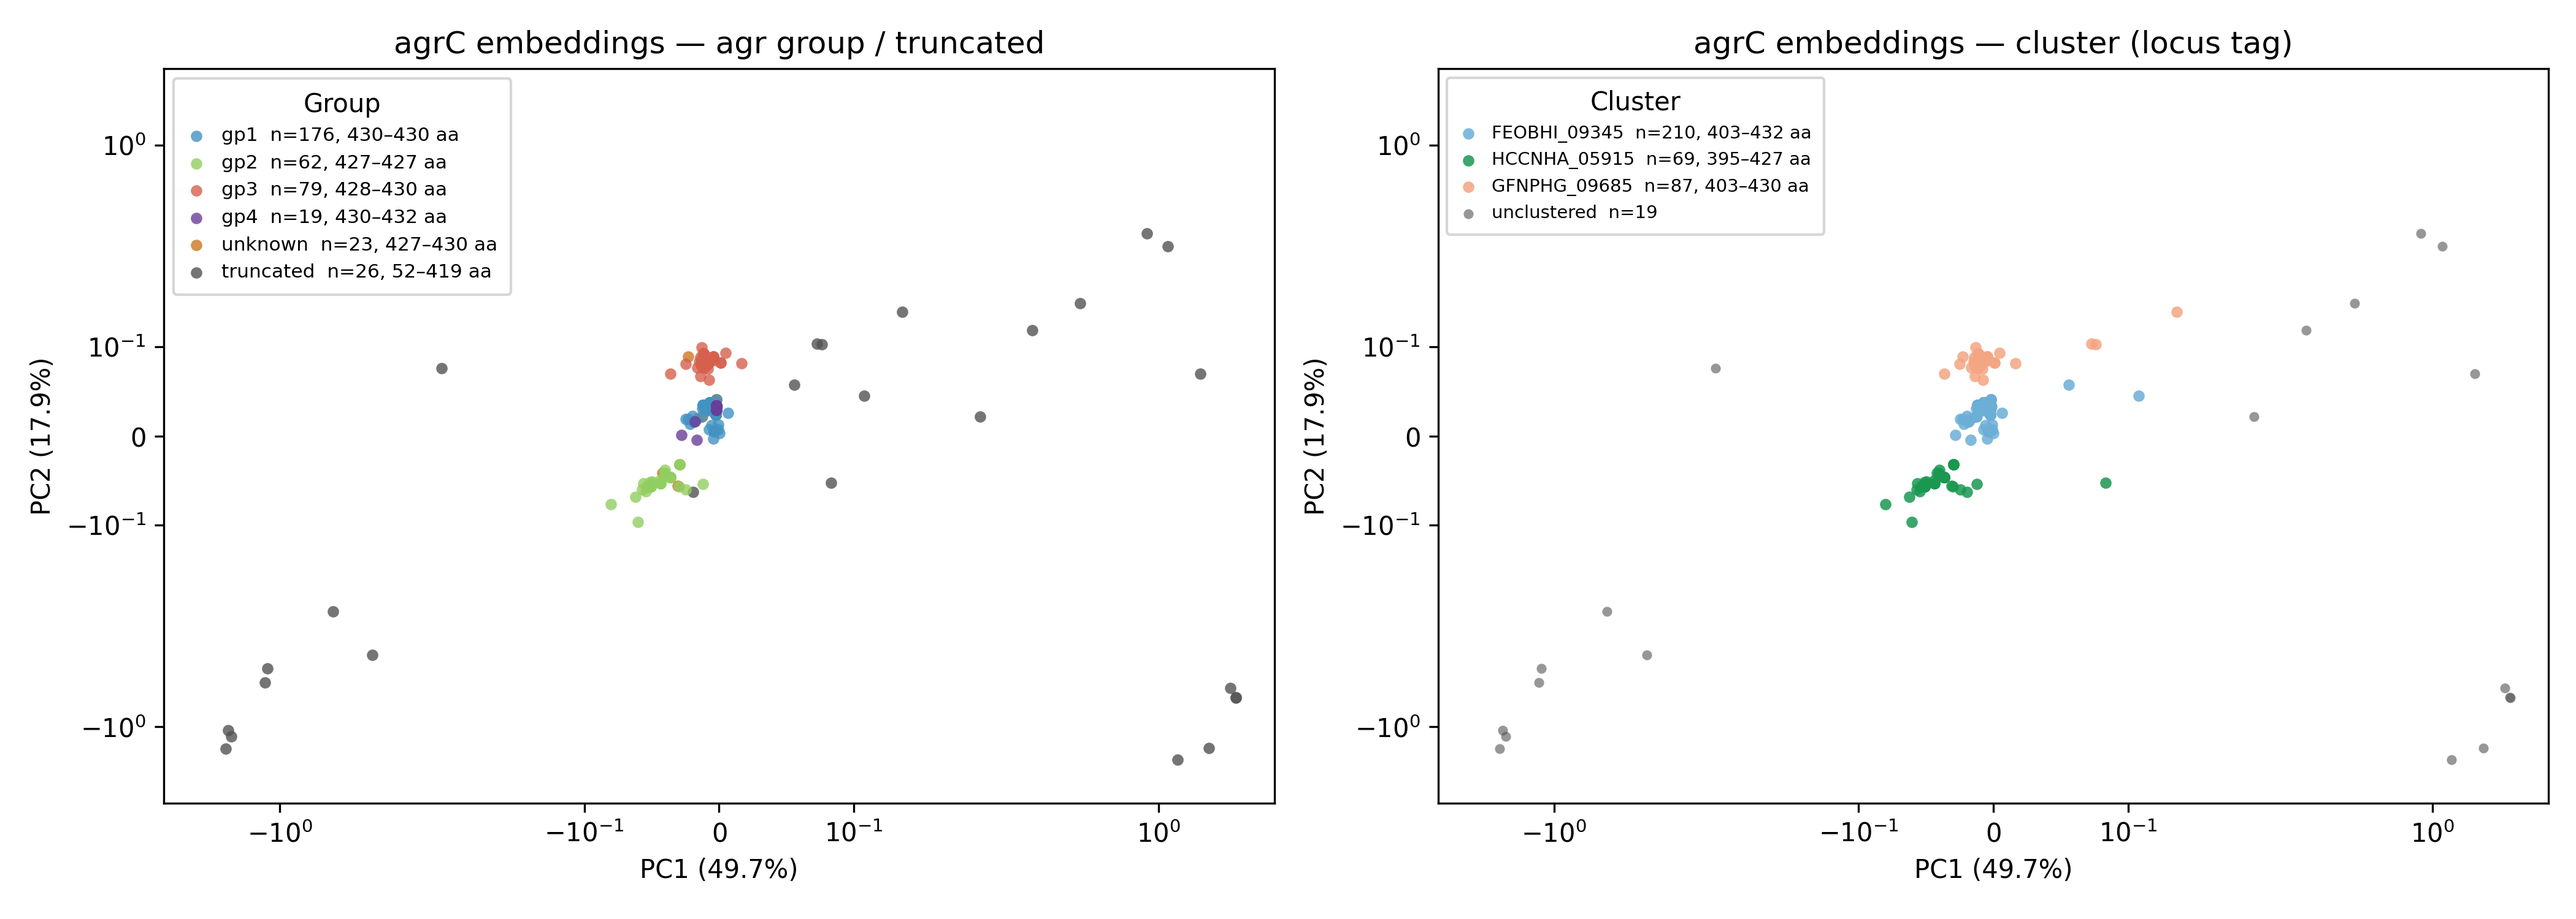
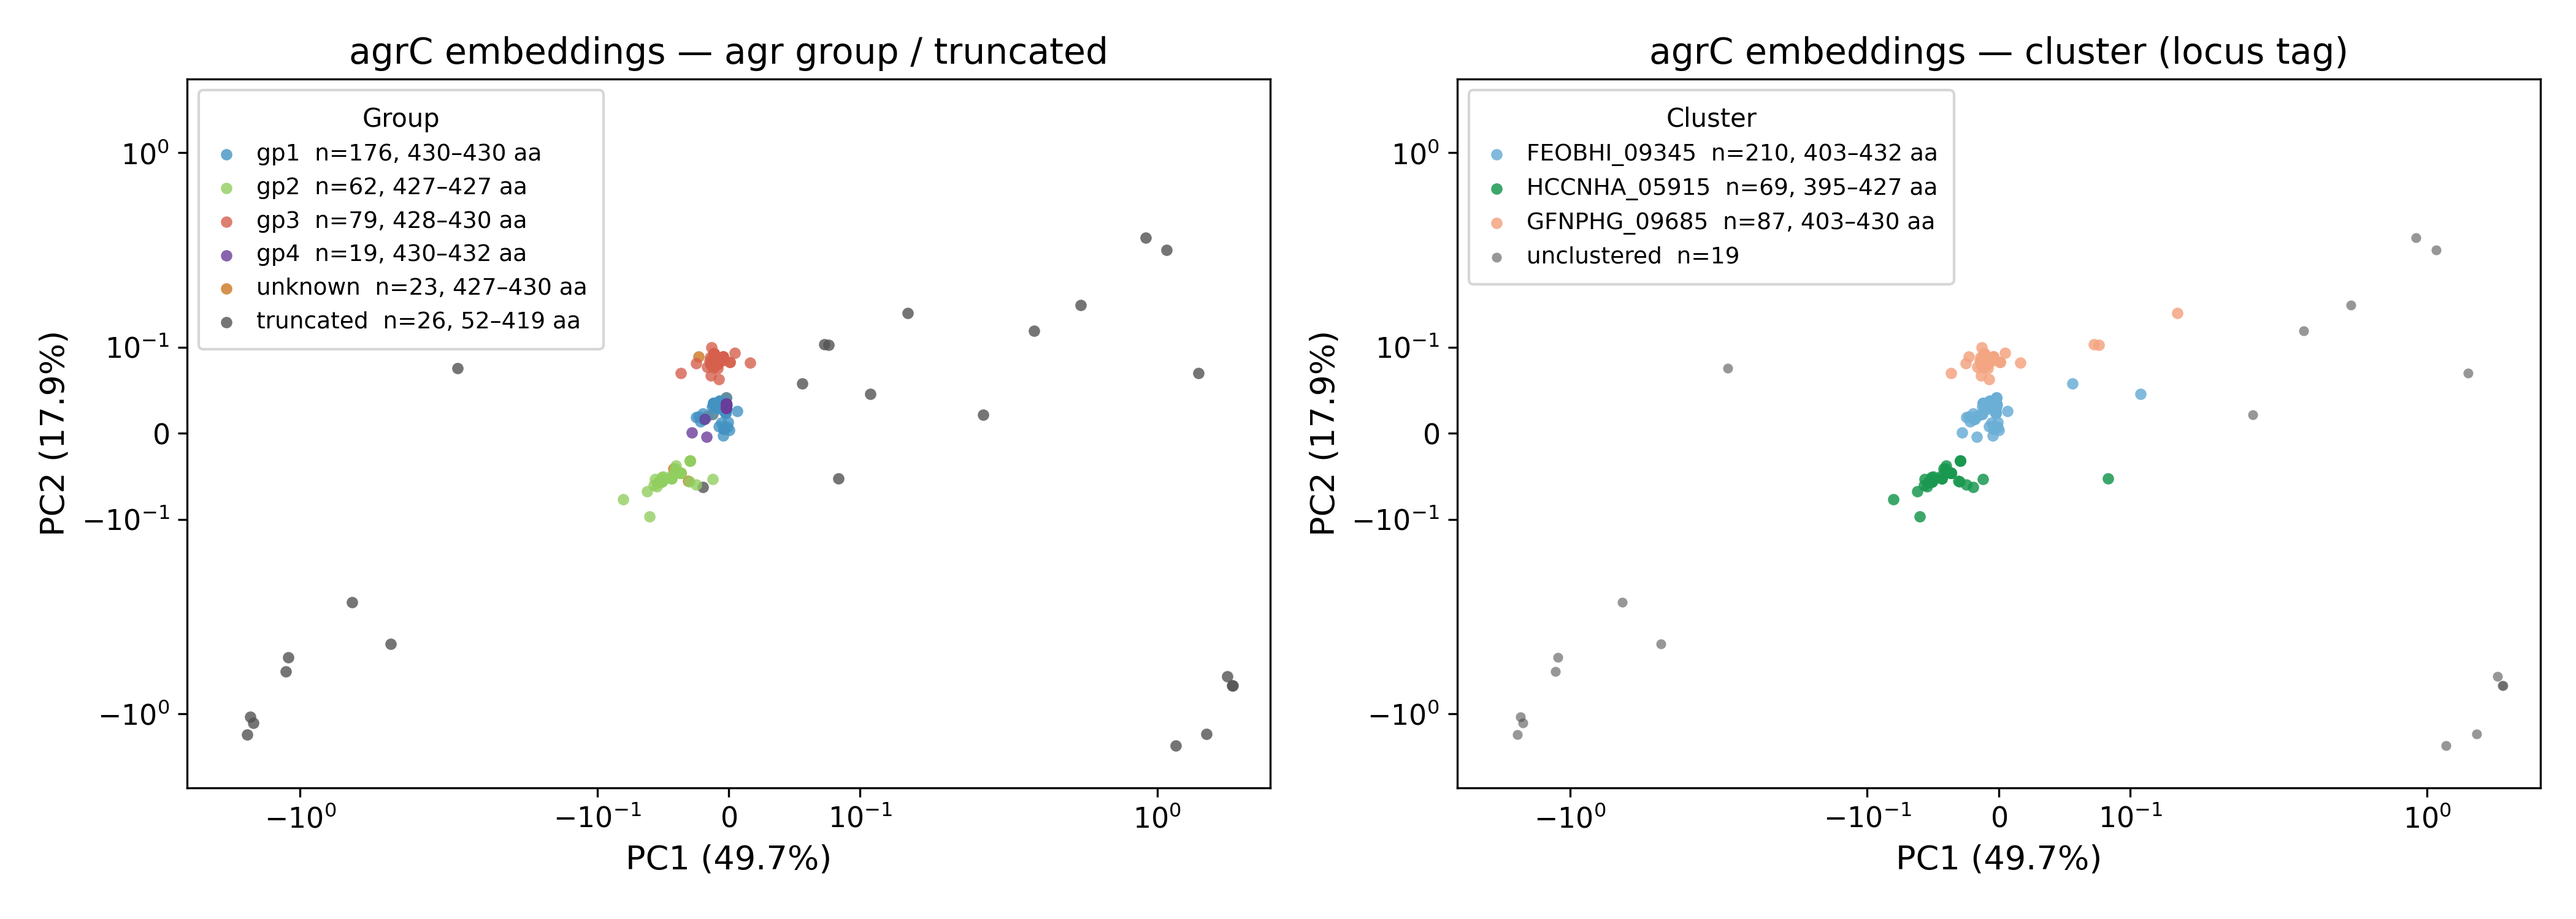
Increase font sizes: titles 14, axis labels 13, ticks 11, legend 9/10
https://claude.ai/code/session_01NFC4RxMTbBLYjMsjyKhpz9

diff --git a/agrc_umap.py b/agrc_umap.py
@@ -5,6 +5,17 @@ import pandas as pd
 from sklearn.decomposition import PCA
 from sklearn.mixture import GaussianMixture
 import matplotlib.pyplot as plt
+import matplotlib as mpl
+
+mpl.rcParams.update({
+    "font.size":        13,
+    "axes.titlesize":   14,
+    "axes.labelsize":   13,
+    "xtick.labelsize":  11,
+    "ytick.labelsize":  11,
+    "legend.fontsize":   9,
+    "legend.title_fontsize": 10,
+})
 
 # ── Parse sequence lengths from FASTA ────────────────────────────────────────
 seq_lengths = {}
@@ -137,7 +148,7 @@ h, l = ax.get_legend_handles_labels()
 label_to_handle = dict(zip([x.split()[0] for x in l], h))
 h_ord = [label_to_handle[g] for g in p1_order if g in label_to_handle]
 l_ord = [lbl for g in p1_order for lbl in l if lbl.startswith(g + " ")]
-ax.legend(h_ord, l_ord, title="Group", frameon=True, fontsize=7.5, loc="best",
+ax.legend(h_ord, l_ord, title="Group", frameon=True, loc="best",
           handlelength=1, borderpad=0.7)
 
 # ── Panel 2: cluster locus tag / unclustered ──────────────────────────────────
@@ -172,7 +183,7 @@ l_ord = ([lbl for p in p2_priority for lbl in l if lbl.startswith(p)]
          + remaining + unc_entry)
 lbl_to_h = dict(zip(l, h))
 h_ord = [lbl_to_h[lbl] for lbl in l_ord]
-ax.legend(h_ord, l_ord, title="Cluster", frameon=True, fontsize=7, loc="best",
+ax.legend(h_ord, l_ord, title="Cluster", frameon=True, loc="best",
           handlelength=1, borderpad=0.7)
 
 plt.tight_layout()
